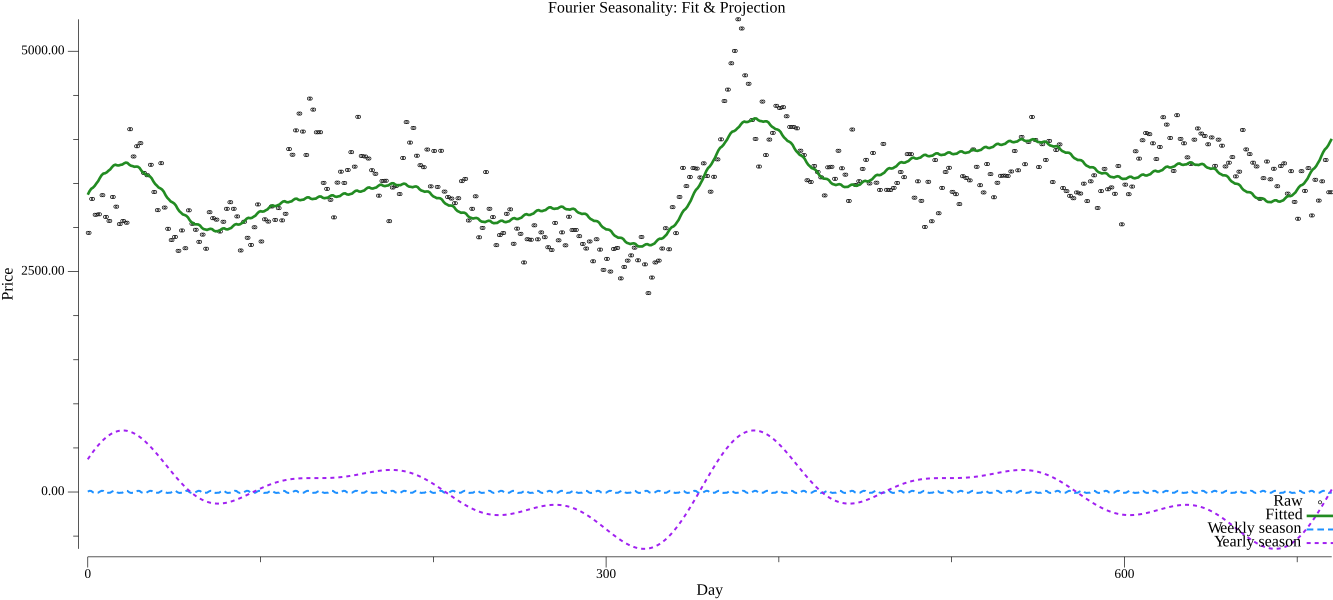
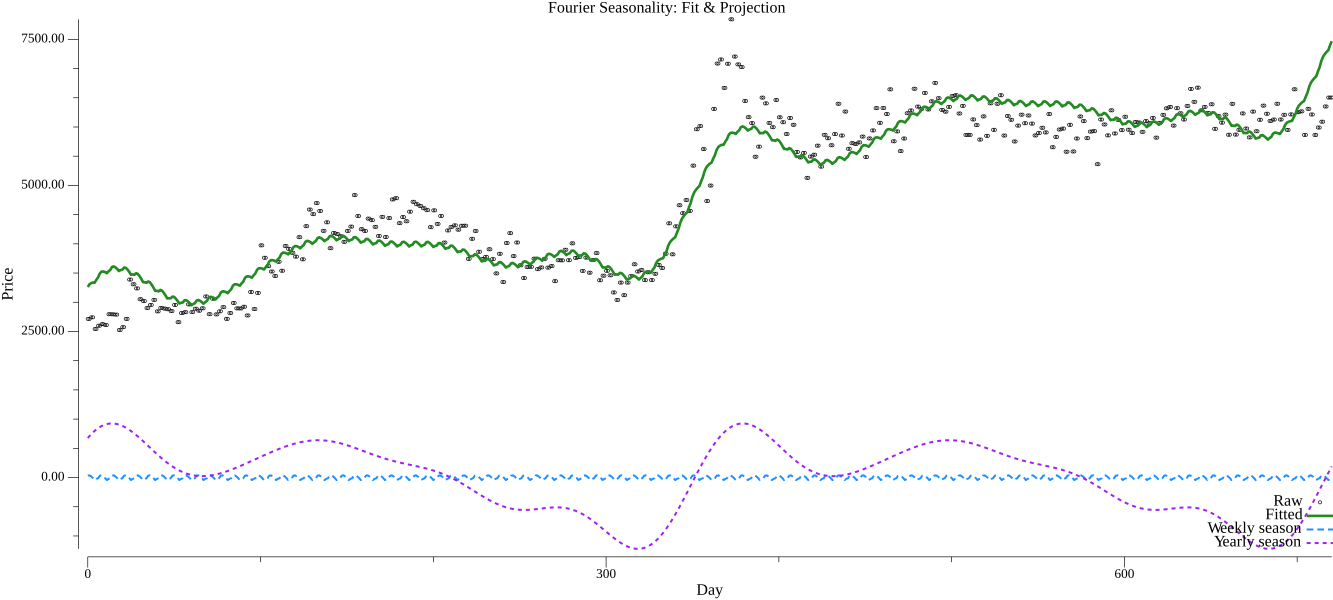
use fourier transform to model seasonality

diff --git a/analyzer.go b/analyzer.go
@@ -146,11 +146,11 @@ func projectPrice_ZScore(id string, daysL1 int64, daysU1 int64, daysL2 int64, da
 Uses STL (season-trend) decomposition with Fourier regression to forecast
 a price average for future date range.
 
-We break down past prices as a long-term trend component (T), seasonal cyclical component (S),
-and random residue (R). Once we have models for T and S, we can predict future prices with
-T_avg(today + next) + S_avg(today + next).
+We break down past prices as a long-term trend component (T), seasonal cyclical component (S).
+Once we have models for T and S, we can predict future prices with T_avg(today + next) + S_avg(today + next).
 
-S(t) is modelled using Fourier regression to identify weekly and yearly cycles.
+T(t) is fitted with standard linear regression to account for price drift over time.
+S(t) is modeled using Fourier regression to identify weekly and yearly cycles.
 
 From what I've found, best parameters are daysBefore = 720 (2 yrs of past data) and
 daysFuture = 60 (predict avg. of next 2 months)
@@ -207,9 +207,12 @@ func projectPrice_FourierSTL(id string, daysBefore int64, daysFuture int64, logS
 		t := n - 1 + h
 		row := make([]float64, 0, p)
 		row = append(row, 1.0)
-		row = append(row, float64(t)/float64(n)) // extend trend linearly
 
-		row = append(row, tools.FourierFeatures(t, 7.0, Kw)...)
+		//Extend trend linearly
+		row = append(row, float64(t)/float64(n)) 
+
+		//Add fourier periodic movements
+		row = append(row, tools.FourierFeatures(t, 7.0, Kw)...) 
 		if useYearly {
 			row = append(row, tools.FourierFeatures(t, 365.25, Ky)...)
 		}

diff --git a/monitor.go b/monitor.go
@@ -190,7 +190,7 @@ func main() {
 
 	itemDetails := tools.GetLimitedData()
 	onlyDemand := false                    //scan demand items only
-	forecastItems := []string{"928908332"} //"928908332", "20573078"
+	forecastItems := []string{"9255011"} //"928908332", "20573078"
 	for _, id := range forecastItems {
 		name := itemDetails.Items[id][0]
 		isDemand := int(itemDetails.Items[id][5].(float64)) != -1

diff --git a/README.md b/README.md
@@ -31,7 +31,7 @@ Two key processes drive the entire system. One acts as the hand, monitoring pric
 - Informs immediate purchase decisions with z-score and margin analysis
 - Cache sales data to classify price points quickly
 - Finds trends and identifies outliers in past sales data
-- Forecasts future prices with STL decomposition and linear regression to guide long-term trading
+- Forecasts future prices with STL decomposition and Fourier regression on seasonal data to guide long-term trading
 
 
 ---
@@ -48,7 +48,7 @@ Two key processes drive the entire system. One acts as the hand, monitoring pric
 ### Market Evaluation
 - **Spikes & Dips**: Uses statistical measures (z-score, %CV) to identify trends in sales data and guide buying, trading, selling
 - **Market Metrics**: Compares prices of item groups to past time periods for market insights  
-- **Price Prediction**: Leverages past seasonal cycles and price patterns to predict item potential  
+- **Price Prediction**: Predicts item potential with seasonal cycles and trend directions
 - **Data Caching**: Precomputes and stores mean / standard deviation of past sales for fast querying
 
 ---
